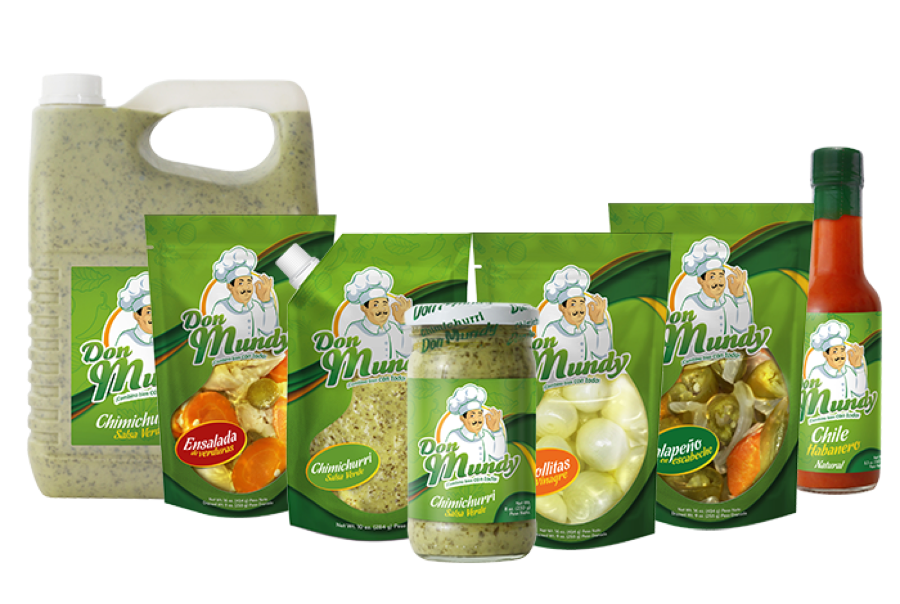
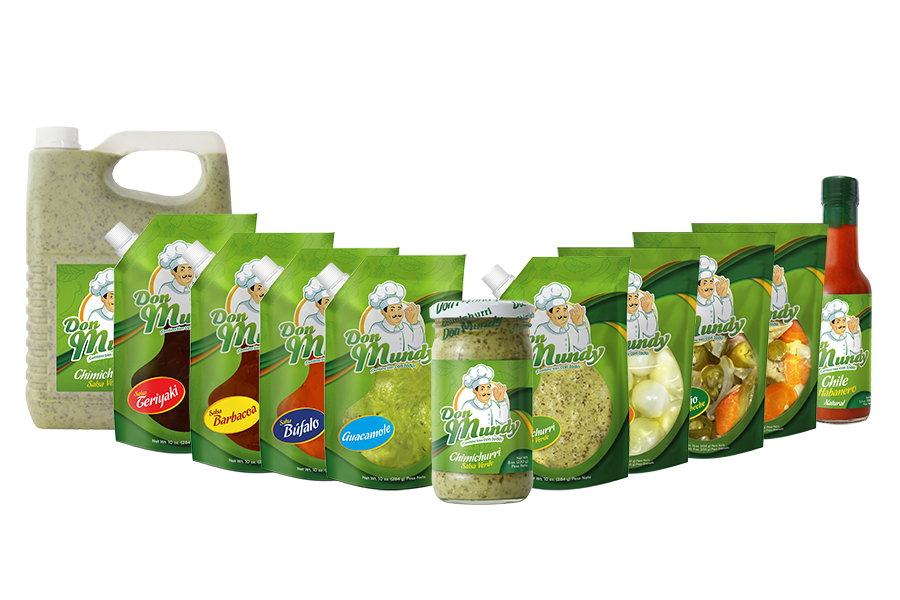
Final, deployed

diff --git a/src/app/inicio/inicio.component.html b/src/app/inicio/inicio.component.html
@@ -25,7 +25,7 @@
           <span class="section-heading-upper">Materias Primas</span>
           <span class="section-heading-lower">&iexcl;Somos Productores!</span>
         </h2>
-        <p class="mb-3">Producimos el 70% de nuestras materias primas. La espinaca es nuestra principal cocecha y nos permite controlar y asegurar la calidad desde el campo hasta su mesa.
+        <p class="mb-3">Producimos el 70% de nuestras materias primas. La espinaca es nuestra principal cosecha y nos permite controlar y asegurar la calidad desde el campo hasta su mesa.
         </p>
       </div>
     </div>
@@ -43,23 +43,41 @@
   </div>
 
   <div class="row">
-    <div class="col-4 col-md-2">
+    <div class="col-4 col-md-3 text-center">
       <img class="brand-image" src="assets/img/marcas/almacarrone.png" alt="">
     </div>
-    <div class="col-4 col-md-2">
+    <div class="col-4 col-md-3 text-center">
         <img class="brand-image" src="assets/img/marcas/bremen.png" alt="">
     </div>
-    <div class="col-4 col-md-2">
+    <div class="col-4 col-md-3 text-center">
       <img class="brand-image" src="assets/img/marcas/campero.png" alt="">
     </div>
-    <div class="col-4 col-md-2">
+    <div class="col-4 col-md-3 text-center">
     <img class="brand-image" src="assets/img/marcas/latorre.png" alt="">
     </div>
-    <div class="col-4 col-md-2">
+    <div class="col-4 col-md-3 text-center">
       <img class="brand-image" src="assets/img/marcas/patsy.png" alt="">
     </div>
-    <div class="col-4 col-md-2">
+    <div class="col-4 col-md-3 text-center">
         <img class="brand-image" src="assets/img/marcas/walmart.png" alt="">
+    </div>
+    <div class="col-4 col-md-3 text-center">
+      <img class="brand-image" src="assets/img/marcas/labarata.png" alt="">
+    </div>
+    <div class="col-4 col-md-3 text-center">
+        <img class="brand-image" src="assets/img/marcas/misuperfresh.png" alt="">
+    </div>
+    <div class="col-4 col-md-3 text-center">
+        <img class="brand-image" src="assets/img/marcas/paiz.png" alt="">
+    </div>
+    <div class="col-4 col-md-3 text-center">
+        <img class="brand-image" src="assets/img/marcas/econosuper.png" alt="">
+    </div>
+    <div class="col-4 col-md-3 text-center">
+        <img class="brand-image" src="assets/img/marcas/despensafamiliar.png" alt="">
+    </div>
+    <div class="col-4 col-md-3 text-center">
+        <img class="brand-image" src="assets/img/marcas/maxidespensa.png" alt="">
     </div>
   </div>
 
@@ -72,14 +90,23 @@
     </div>
   
     <div class="row">
-      <div class="col-4 offset-0 col-md-3 offset-md-1">
+      <div class="col-12 offset-0 col-md-4 offset-md-1 text-center">
+        
         <img class="brand-image" src="assets/img/certs/sgs.png" alt="">
+        <p>
+            Contamos con sistema de calidad según criterios de Walmart México y Centroamérica, evaluado por SGS Guatemala
+      </p>
+        
       </div>
-      <div class="col-4 offset-0 col-md-3 offset-md-1">
+      <div class="col-12 offset-0 col-md-3  text-center">
           <img class="brand-image" src="assets/img/certs/walmart.png" alt="">
       </div>
-      <div class="col-4 offset-0 col-md-3 offset-md-1">
+      <div class="col-12 offset-0 col-md-4 text-center">
         <img class="brand-image" src="assets/img/certs/intertek.png" alt="">
+        <p>
+            Contamos con un sistema de salud y seguridad industrial según los lineamientos de estándares éticos proporcionados por Walmart México y Centroamérica
+        </p>
+        
       </div>
     </div>
 

diff --git a/src/app/productos-donmundy/productos-donmundy.component.ts b/src/app/productos-donmundy/productos-donmundy.component.ts
@@ -15,8 +15,11 @@ export class ProductosDonmundyComponent implements OnInit {
     {name:'Jalapeño en escabeche', type: 'Bolsa doypack con zipper', imgUrl:this.base + 'jalapenio_bolsa.png'},
     {name:'Cebollitas en vinagre', type: 'Bolsa doypack con zipper', imgUrl:this.base + 'cebollitas_vinagre.png'},
     {name:'Ensalada de verduras', type: 'Bolsa doypack con zipper', imgUrl:this.base + 'ensalada_verduras.png'},
+    {name:'Guacamole', type: 'Bolsa doypack con valvula', imgUrl:this.base + 'guacamole.jpg'},
     {name:'Chile habanero', type: 'Frasco de vidrio', imgUrl:this.base + 'chile_habanero.png'},
-    
+    {name:'Salsa barbacoa', type: 'Bolsa doypack con valvula', imgUrl:this.base + 'barbacoa.jpg'},
+    {name:'Salsa Teriyaki', type: 'Bolsa doypack con valvula', imgUrl:this.base + 'teriyaki.jpg'},
+    {name:'Salsa Bufalo', type: 'Bolsa doypack con valvula', imgUrl:this.base + 'bufalo.jpg'},
   ];
 
   constructor() { }

diff --git a/src/app/productos-frescos/productosFrescos.ts b/src/app/productos-frescos/productosFrescos.ts
@@ -45,4 +45,7 @@ export const PRODUCTOS_FRESCOS: Producto[] = [
   {  name: 'Hierbabuena' , imgUrl: base + 'hierbabuena.png'},
   {  name: 'Chile Jalapeño' , imgUrl: base + 'jalapenio.png'},
   {  name: 'Mix de Verduras' , imgUrl: base + 'mixverduras.png'},
+  {  name: 'Ensalada Fiesta' , imgUrl: base + 'ensalada-fiesta.jpg'},
+  {  name: 'Ensalada Premium' , imgUrl: base + 'ensalada-premium.jpg'},
+  {  name: 'Espinaca' , imgUrl: base + 'espinaca.jpg'},
 ];

diff --git a/src/app/inicio/inicio.component.scss b/src/app/inicio/inicio.component.scss
@@ -10,7 +10,9 @@
 
 .brand-image
 {
-  width:95%;
+  margin: 15px;
+  max-height: 80px;
+  max-width: 100%;
   
 }
 
@@ -22,8 +24,6 @@
 
 .brand-image:hover
 {
-  width:100%;
-  
 }
 
   @media (min-width: 564px) {
